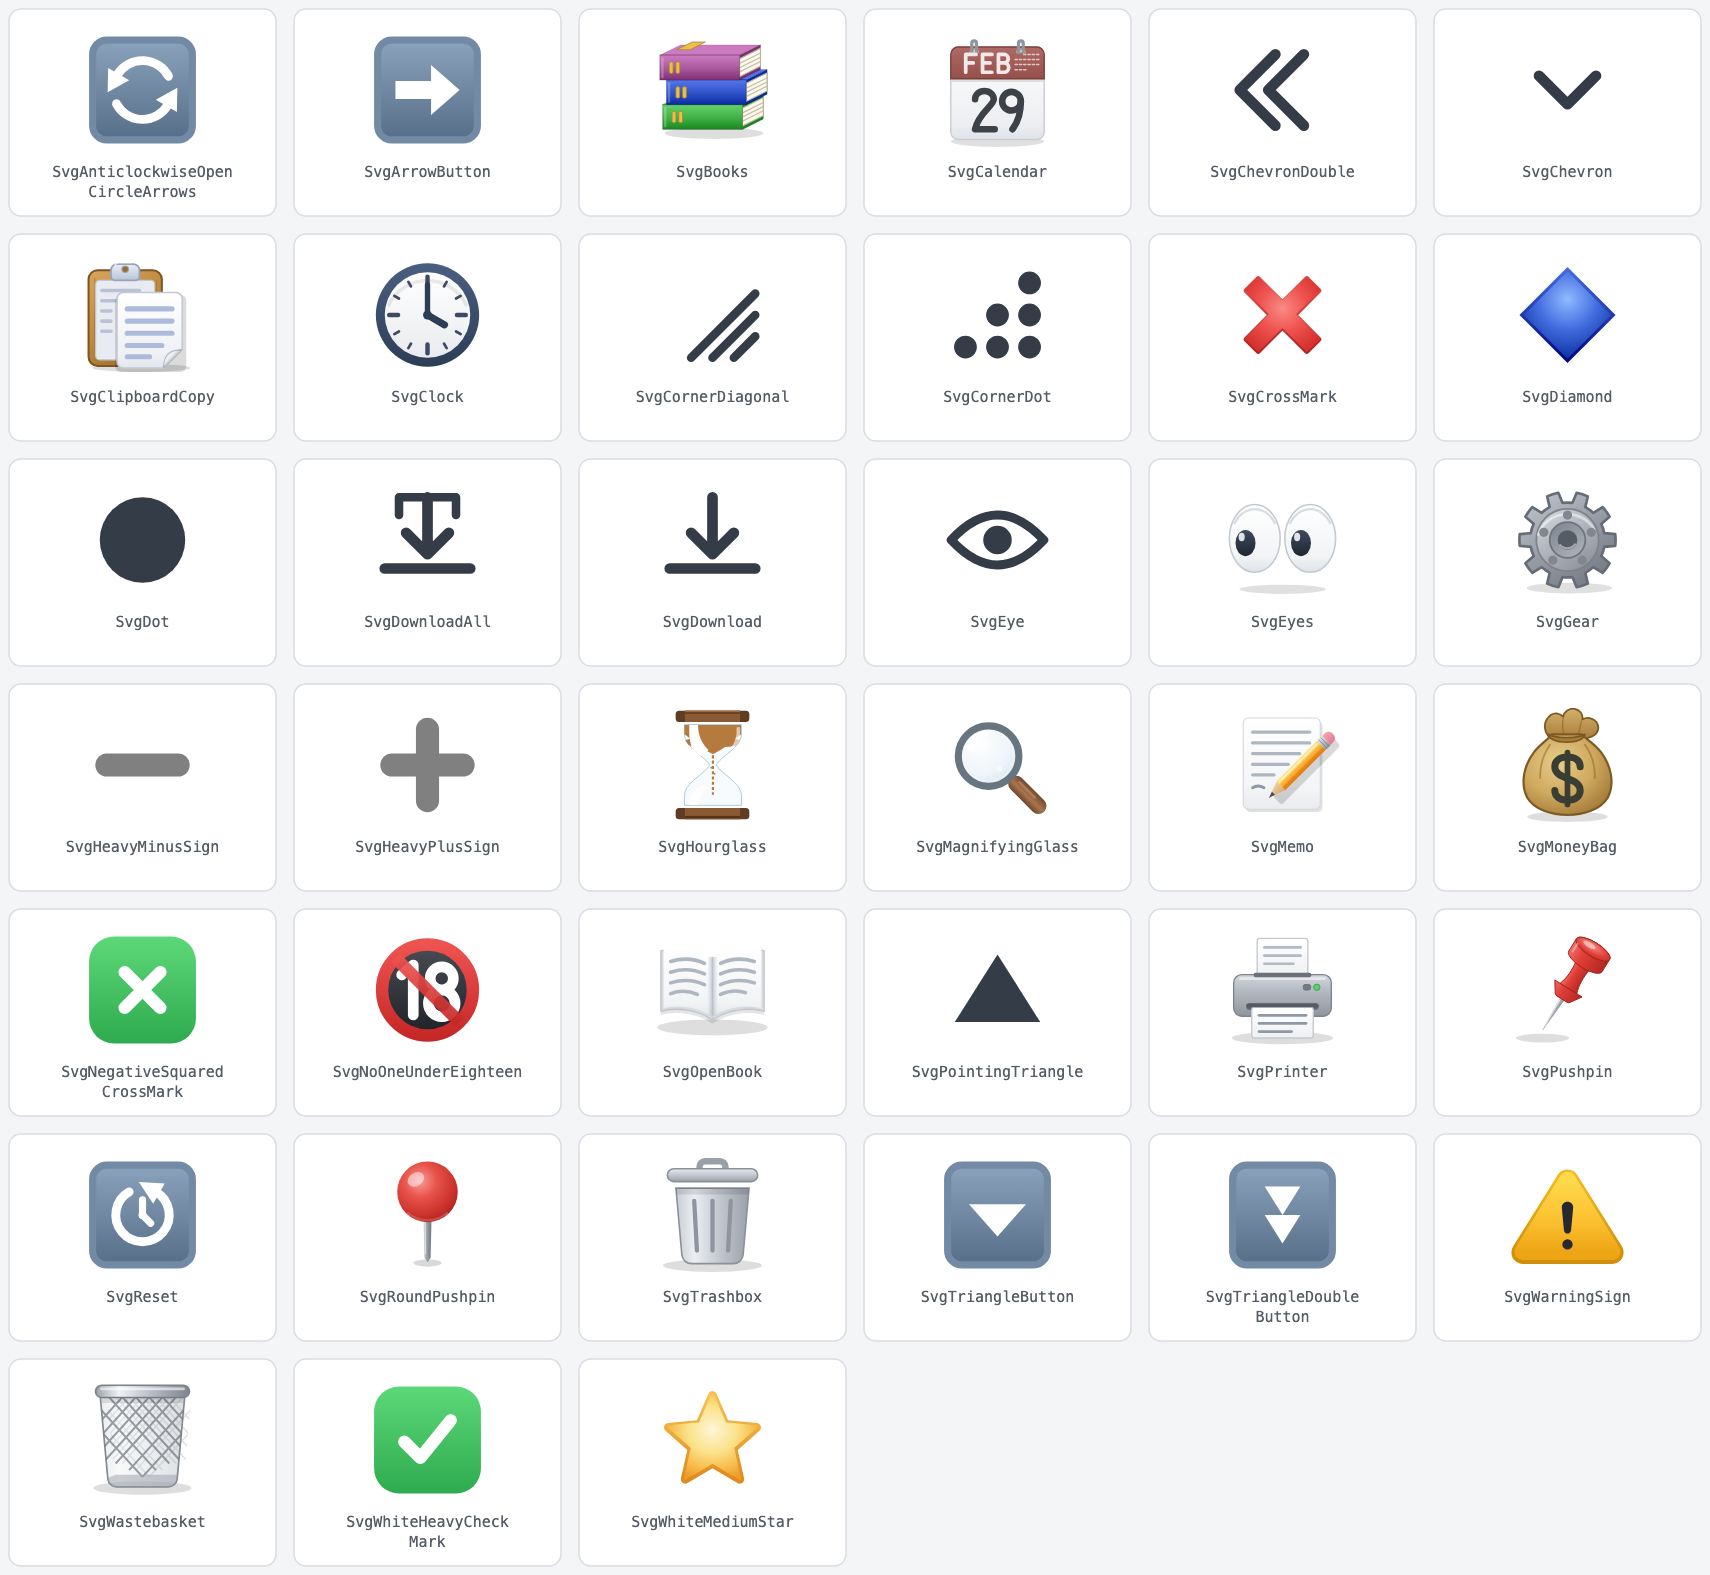
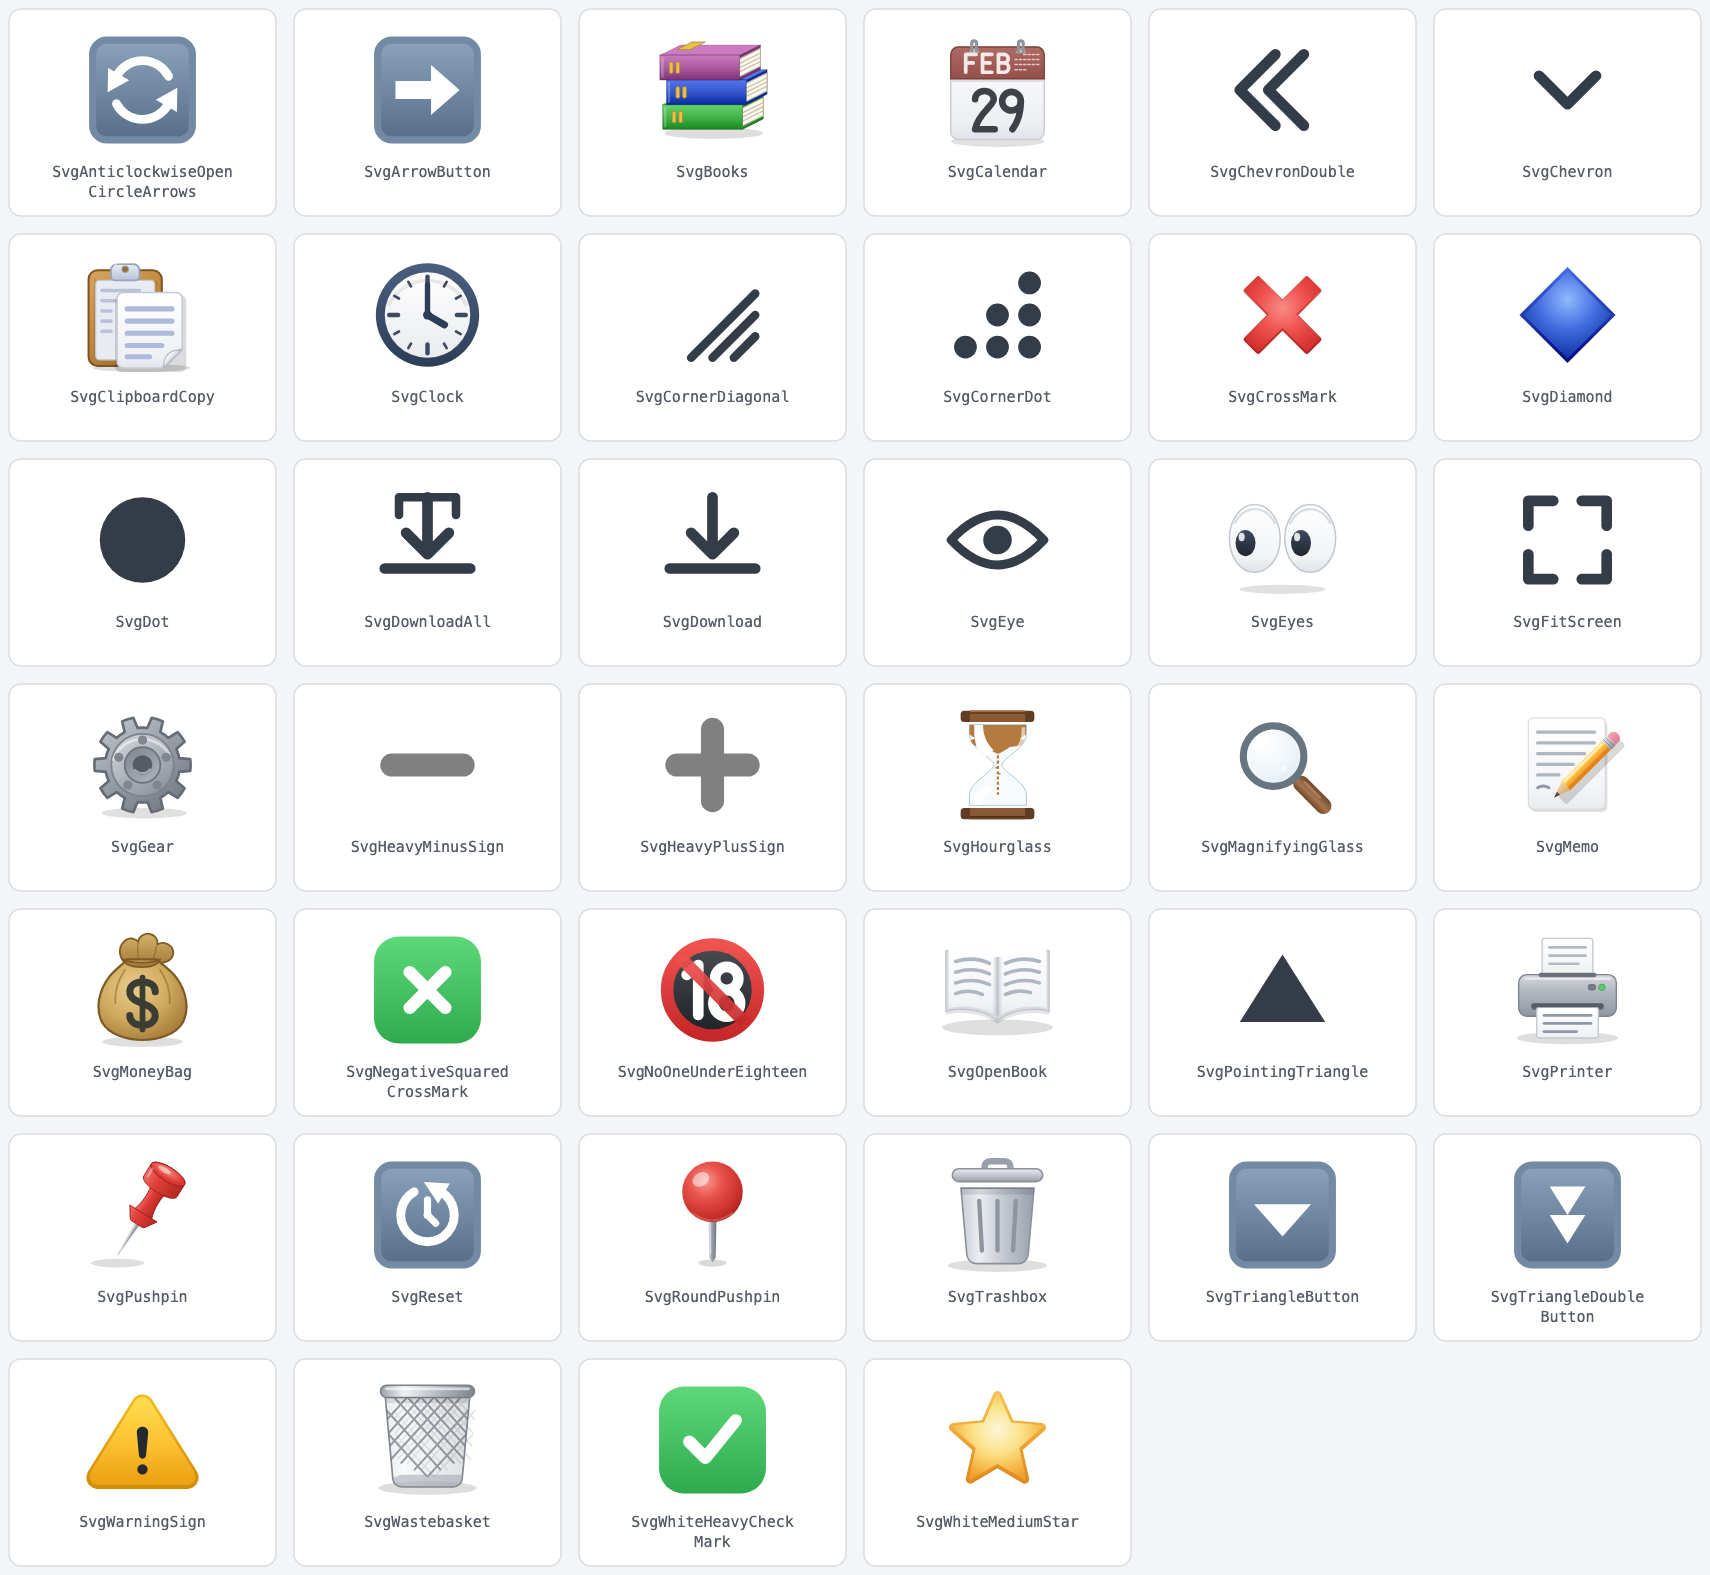
* svg-fit-screenを追加

diff --git a/src/svg-fit-screen.vue b/src/svg-fit-screen.vue
@@ -1,0 +1,32 @@
+<!--
+表示を初期状態(全体表示)へ戻すことをイメージしたアイコン(四隅の内向きかぎ括弧)
+UTF-8絵文字に対応する定番絵文字は存在しない
+-->
+<template>
+  <svg
+    xmlns="http://www.w3.org/2000/svg"
+    viewBox="0 0 64 64"
+    :width="props.size"
+    :height="props.size"
+  >
+    <path
+      d="M10 24 V10 H24 M40 10 H54 V24 M54 40 V54 H40 M24 54 H10 V40"
+      :stroke="props.color"
+      stroke-width="6"
+      stroke-linecap="round"
+      stroke-linejoin="round"
+      fill="none"
+    />
+  </svg>
+</template>
+
+<script setup lang="ts">
+interface Props {
+  size?: number | string;
+  color?: string;
+}
+const props = withDefaults(defineProps<Props>(), {
+  size: '1.2em',
+  color: 'currentColor'
+});
+</script>

diff --git a/src/index.ts b/src/index.ts
@@ -19,6 +19,7 @@ export { default as SvgDownloadAll } from './svg-download-all.vue';
 export { default as SvgDownload } from './svg-download.vue';
 export { default as SvgEye } from './svg-eye.vue';
 export { default as SvgEyes } from './svg-eyes.vue';
+export { default as SvgFitScreen } from './svg-fit-screen.vue';
 export { default as SvgGear } from './svg-gear.vue';
 export { default as SvgHeavyMinusSign } from './svg-heavy-minus-sign.vue';
 export { default as SvgHeavyPlusSign } from './svg-heavy-plus-sign.vue';

diff --git a/README.md b/README.md
@@ -46,7 +46,7 @@ import {
 
   <SvgDownload :size="20" color="#c0392b" />
   <SvgChevron direction="up" />
-  <SvgClock :hour="9" :minute="41" :duration="0" />
+  <SvgClock :hour="9" :minute="41" :duration="10" />
 </template>
 
 ```
@@ -120,6 +120,7 @@ Standalone UI icons with no direct emoji counterparts.
 | `SvgDownloadAll` | `size`, `color`, `strokeWidth`, `topLineWidth` |
 | `SvgDownload` | `size`, `color`, `strokeWidth` |
 | `SvgEye` | `size`, `color`, `strokeWidth`, `slashed` |
+| `SvgFitScreen` | `size`, `color` |
 | `SvgPointingTriangle` | `direction`, `size`, `color` |
 | `SvgReset` | `size`, `bgColor`, `borderColor`, `arrowColor`, `cornerRadius` |
 
